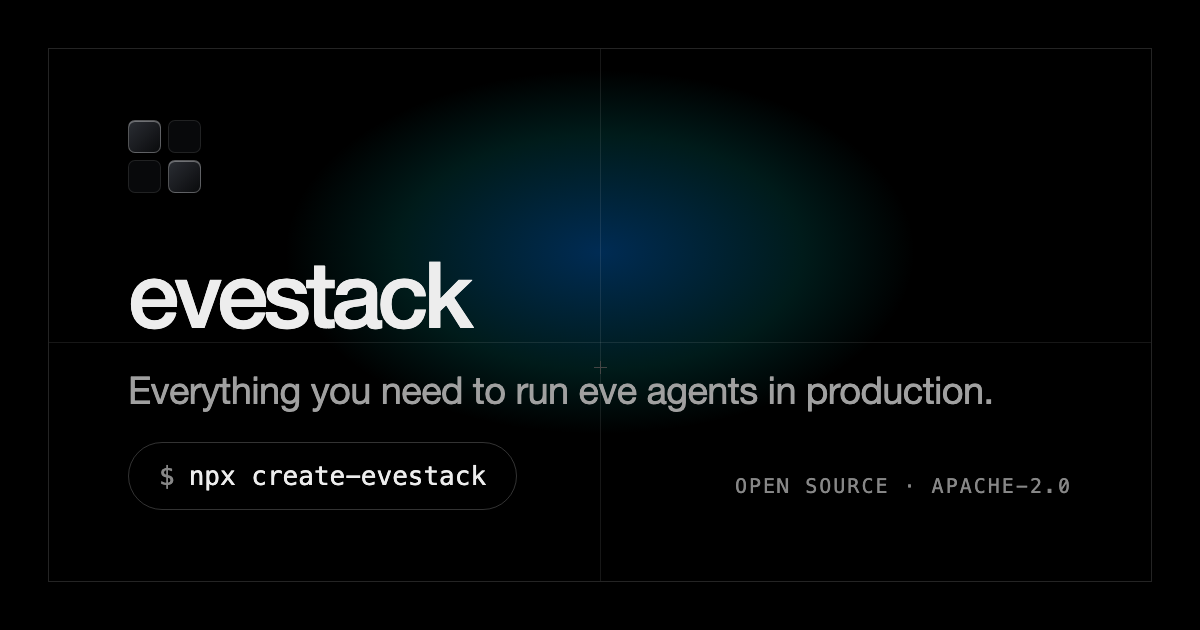
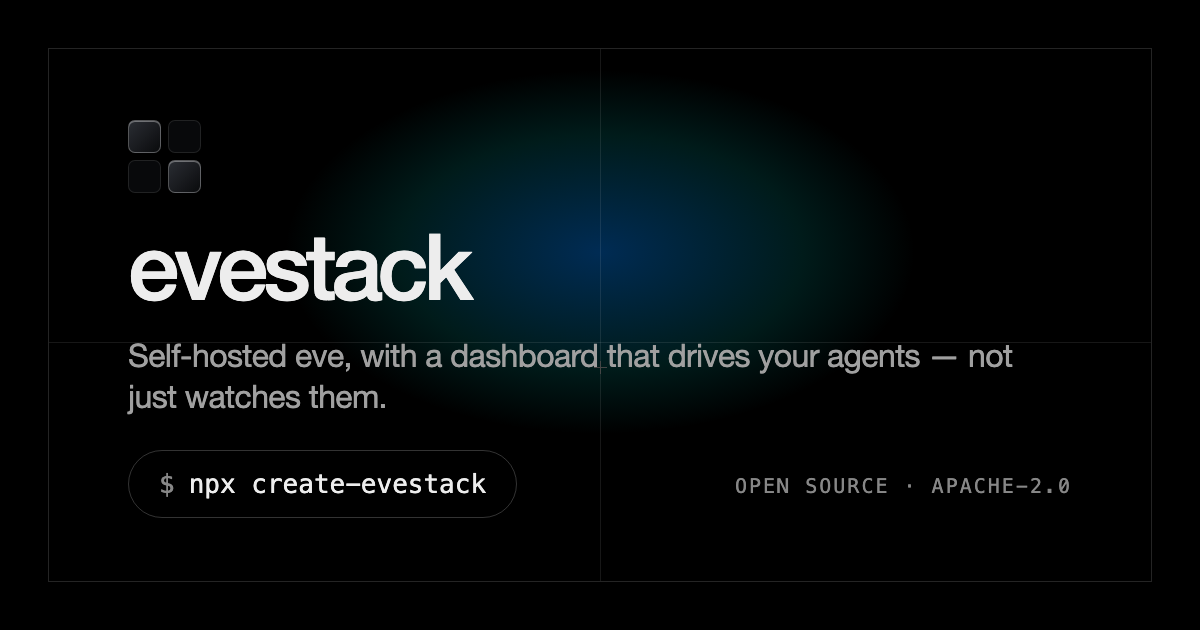
Say the same thing on all four surfaces
The site, the README, the GitHub description and npm each opened with a
different sentence:

  site    Everything you need to run eve agents in production.
  README  Run eve agents on infrastructure you own.
  GitHub  Self-hosted agent observability and control for Vercel's eve...
  npm     Create a fully self-hosted eve agent: durable Postgres sessions...

None were wrong, but someone arriving npm -> GitHub -> site got re-pitched
three times and never landed on one idea. All four now read:

  Self-hosted eve, with a dashboard that drives your agents — not just
  watches them.

It is the only line that carries what it is, what you get, and why it is
different. "Infrastructure you own" is a philosophy, not a capability, and
"everything you need for production" could describe any of a hundred projects.
Drives-vs-watches is the one thing the hosted product does not give you, and
the phrase was already in the repo's own GitHub description.

The OG card needed layout work to take it: the tagline now wraps to two lines
and .pill is positioned from the bottom, so the flowed text ran into the
command pill (measured 5px of overlap). Tightened the heading margin, tag size
and pill offset — now 32px of clearance, verified by measuring the rects rather
than eyeballing the render.

npm still serves the old description until create-evestack is republished.

Changed region(s): [[0.0925, 0.3619, 0.8633, 0.6635], [0.1233, 0.6937, 0.4317, 0.7841]]

diff --git a/packages/website/scripts/og-template.html b/packages/website/scripts/og-template.html
@@ -33,10 +33,17 @@
   .q { width: 33px; height: 33px; border-radius: 7px; }
   .on { background: linear-gradient(135deg, #2a2d33, #0a0b0d); border: 1px solid rgba(255,255,255,0.28); box-shadow: inset 0 1px 0 rgba(255,255,255,0.35); }
   .off { background: #08090b; border: 1px solid rgba(255,255,255,0.10); }
-  h1 { font-size: 92px; font-weight: 500; letter-spacing: -5px; margin-top: 44px; }
-  p.tag { font-size: 38px; color: #a0a0a0; margin-top: 18px; letter-spacing: -0.6px; }
+  h1 { font-size: 92px; font-weight: 500; letter-spacing: -5px; margin-top: 16px; }
+  /* The tagline wraps to two lines, and .pill is absolutely positioned from the
+     bottom — so the flowed text has to be tight enough to clear it. max-width
+     forces the wrap at a predictable point instead of leaving it to the glyph
+     widths of whatever the tagline says next. */
+  p.tag {
+    font-size: 32px; color: #a0a0a0; margin-top: 14px; letter-spacing: -0.6px;
+    line-height: 1.28; max-width: 900px;
+  }
   .pill {
-    position: absolute; bottom: 72px; left: 80px; display: inline-flex; align-items: center;
+    position: absolute; bottom: 64px; left: 80px; display: inline-flex; align-items: center;
     gap: 14px; border: 1px solid rgba(255,255,255,0.2); border-radius: 999px;
     padding: 18px 30px; font-family: "SF Mono", Menlo, monospace; font-size: 26px;
   }
@@ -57,7 +64,7 @@
       <div class="row"><div class="q off"></div><div class="q on"></div></div>
     </div>
     <h1>evestack</h1>
-    <p class="tag">Everything you need to run eve agents in production.</p>
+    <p class="tag">Self-hosted eve, with a dashboard that drives your agents — not just watches them.</p>
     <span class="pill"><span class="d">$</span> npx create-evestack</span>
     <span class="badge">Open source · Apache-2.0</span>
   </div>

diff --git a/packages/website/lib/copy.ts b/packages/website/lib/copy.ts
@@ -11,7 +11,11 @@ export const site = {
   name: "evestack",
   mark: "▚",
   title: "evestack — the self-hosted distribution of eve",
-  tagline: "Everything you need to run eve agents in production.",
+  /* One sentence, used verbatim on the site, the README, the GitHub description
+     and npm. It was four different sentences across those four surfaces, so
+     anyone arriving via npm → GitHub → here got re-pitched three times and
+     never landed on one idea. Change it in all four or in none. */
+  tagline: "Self-hosted eve, with a dashboard that drives your agents — not just watches them.",
   subhead:
     "Self-hosted eve with durable sessions, sandboxing, 1,070 tool integrations, memory, approvals, schedules, and a dashboard that drives the agent. One command.",
   eyebrow: "Open source · Apache-2.0",

diff --git a/README.md b/README.md
@@ -2,7 +2,7 @@
 
 # evestack
 
-### Run `eve` agents on infrastructure you own.
+### Self-hosted eve, with a dashboard that drives your agents — not just watches them.
 
 A self-hosted distribution of the eve agent framework — durable Postgres sessions, a Docker
 sandbox, and a dashboard that **observes *and drives*** the agent. One command.
